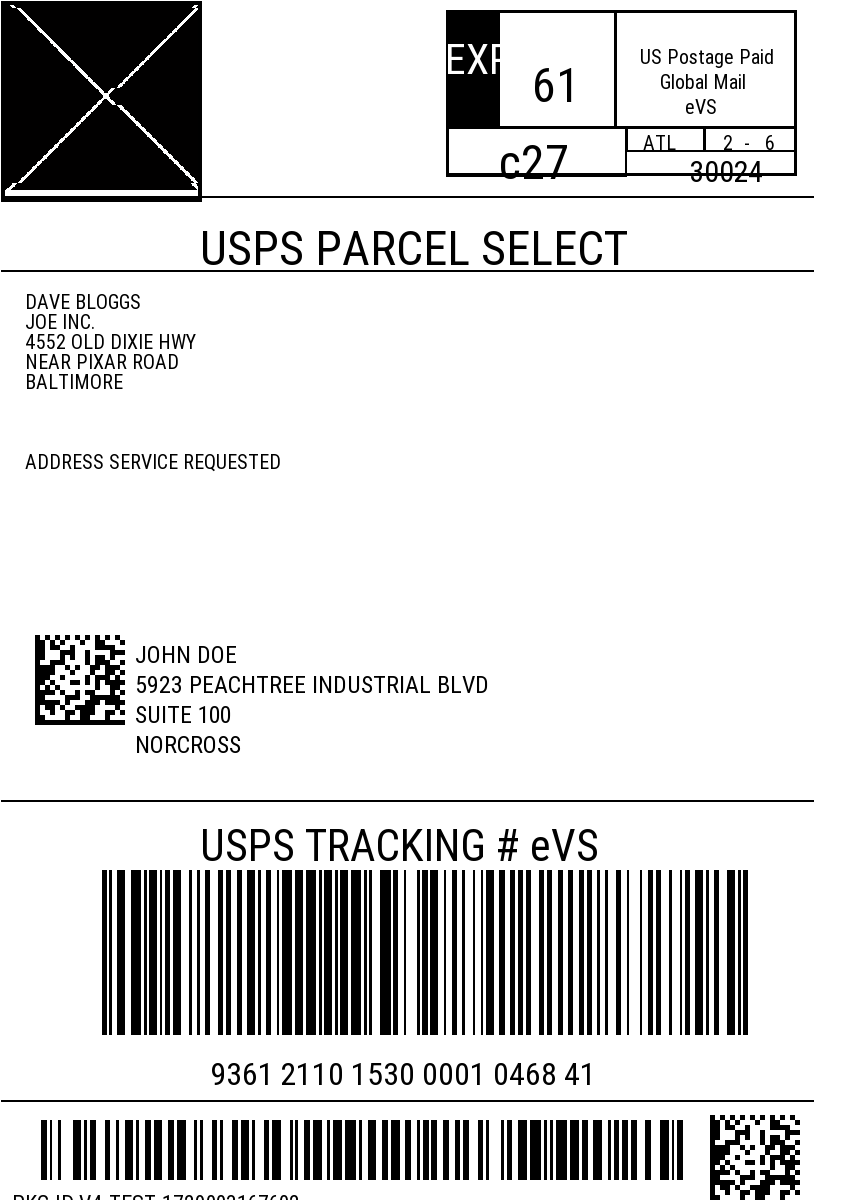
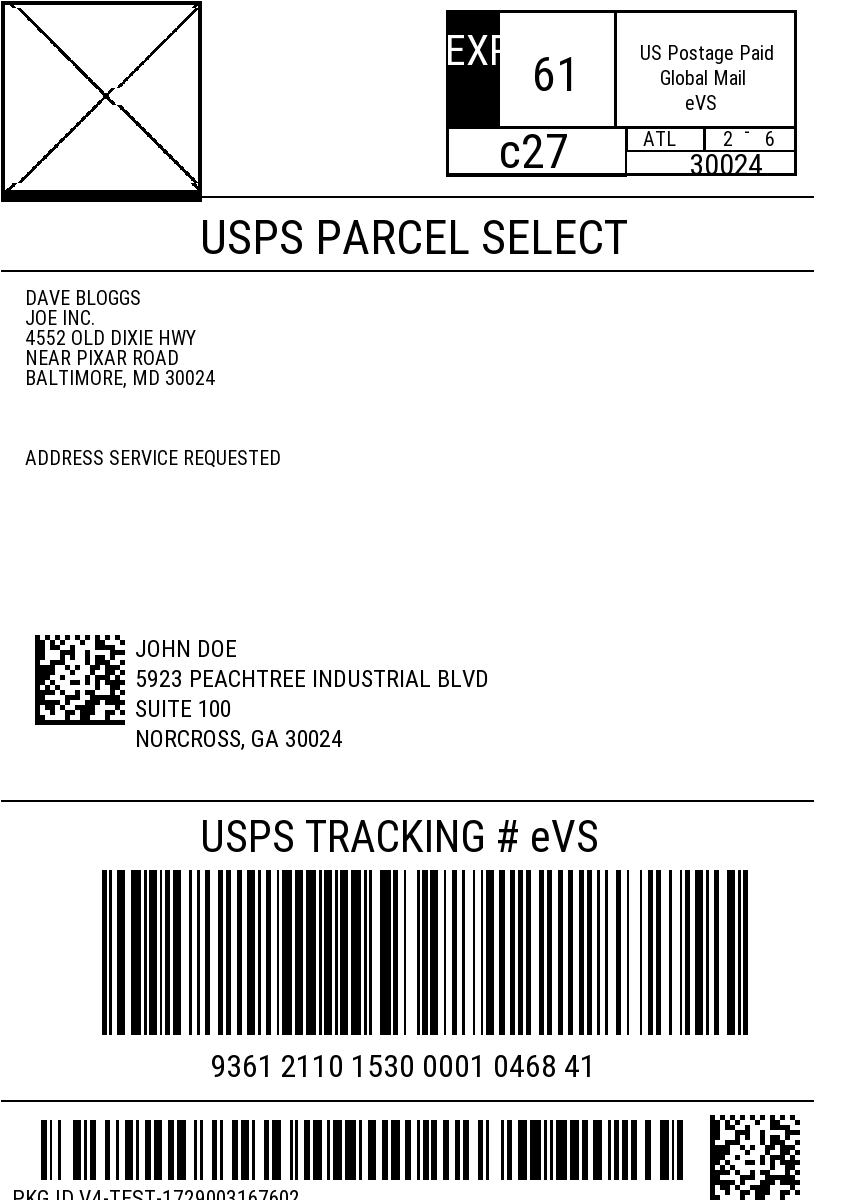
Fixed Image inversion and addedd comma support =)

diff --git a/ZPLConvert.py b/ZPLConvert.py
@@ -40,16 +40,14 @@ def parse_zpl(zpl_data):
         print(f"Expecting DataMatrix: height={state['barcode_height']}, width={state['barcode_width']}, quality={state['barcode_quality']}")
 
     def handle_fd(parts):
-        print(f"Handling FD command with text: {parts[0] if parts else ''}")
+        print(f"Handling FD command with text: {parts}")
         if parts:
-            data = parts[0]
+            data = parts[0]  # The entire field data, including any commas
             if state['expecting_barcode']:
                 if state['barcode_type'] == 'datamatrix':
-                    # For DataMatrix, we'll use the specified dimensions directly
                     width = state['barcode_width']
                     height = state['barcode_height']
                 else:
-                    # For other barcodes, we'll use the previous logic
                     width = state.get('barcode_width', 100)
                     height = state.get('barcode_height', 100)
                 
@@ -224,6 +222,15 @@ def parse_zpl(zpl_data):
         else:
             print("Insufficient parameters for CI command")
 
+    def split_command(command):
+        cmd = command[:2]
+        if cmd == 'FD':
+            # For FD command, keep everything after 'FD' as a single string
+            return [cmd, command[2:]]
+        else:
+            # For other commands, split by comma as before
+            return [cmd] + command[2:].split(',')
+
     command_handlers = {
         'FO': handle_fo,  # Field Origin - Sets the position for subsequent fields
         'FT': handle_ft,  # Field Typeset - Sets the field position
@@ -247,11 +254,12 @@ def parse_zpl(zpl_data):
             continue
         if command.startswith('XZ'):
             break  # End of ZPL data
-        cmd = command[:2]
-        parts = command[2:].split(',')
+        
+        parts = split_command(command)
+        cmd = parts[0]
         
         if cmd in command_handlers:
-            command_handlers[cmd](parts)
+            command_handlers[cmd](parts[1:])
         else:
             print(f"Unknown or unhandled command: {cmd}")
 
@@ -276,7 +284,7 @@ def main():
         label = parse_zpl(zpl_data)
         
         # After processing all commands and drawing elements
-        output_directory = os.path.expanduser('~/.cursor-tutor')
+        output_directory = os.path.dirname(os.path.abspath(__file__))
         if not os.path.exists(output_directory):
             os.makedirs(output_directory)
         

diff --git a/zpl/elements.py b/zpl/elements.py
@@ -51,7 +51,9 @@ class TextElement(BaseElement):
     def _get_font_path(self):
         base_dir = os.path.dirname(os.path.dirname(os.path.abspath(__file__)))
         font_name = "RobotoCondensed-Bold.ttf" if self.bold else "RobotoCondensed-Regular.ttf"
-        return os.path.join(base_dir, "fonts", font_name)
+        font_path = os.path.join(base_dir, "fonts", font_name)
+        print(f"Font path: {font_path}")
+        return font_path
 
     def draw(self, draw):
         try:
@@ -62,13 +64,13 @@ class TextElement(BaseElement):
 
             text_color = (255, 255, 255) if self.reverse else (0, 0, 0)  # White if reversed, else black
             
-            # Calculate text size using font.getbbox()
-            bbox = font.getbbox(self.text)
+            # Use textbbox to get the text dimensions
+            bbox = draw.textbbox((self.x, self.y), self.text, font=font)
             text_width = bbox[2] - bbox[0]
             text_height = bbox[3] - bbox[1]
             
-            # Draw text
-            draw.text((self.x, self.y), self.text, font=font, fill=text_color)
+            # Draw text using textbbox
+            draw.text((self.x, self.y), self.text, font=font, fill=text_color, anchor="lt")
             
             print(f"Drew text: {self.text} at ({self.x}, {self.y}), color={text_color}, size=({text_width}, {text_height})")
         except Exception as e:
@@ -383,7 +385,7 @@ class ImageElement:
         if self.format == 'A':  # ASCII format
             try:
                 image = self.gfa_to_image()
-                draw.bitmap((self.x, self.y), image, fill=1)
+                draw._image.paste(image, (self.x, self.y))
                 print(f"Successfully drew image at ({self.x}, {self.y}), size {self.width}x{self.height}")
                 
                 # Save the image for debugging
